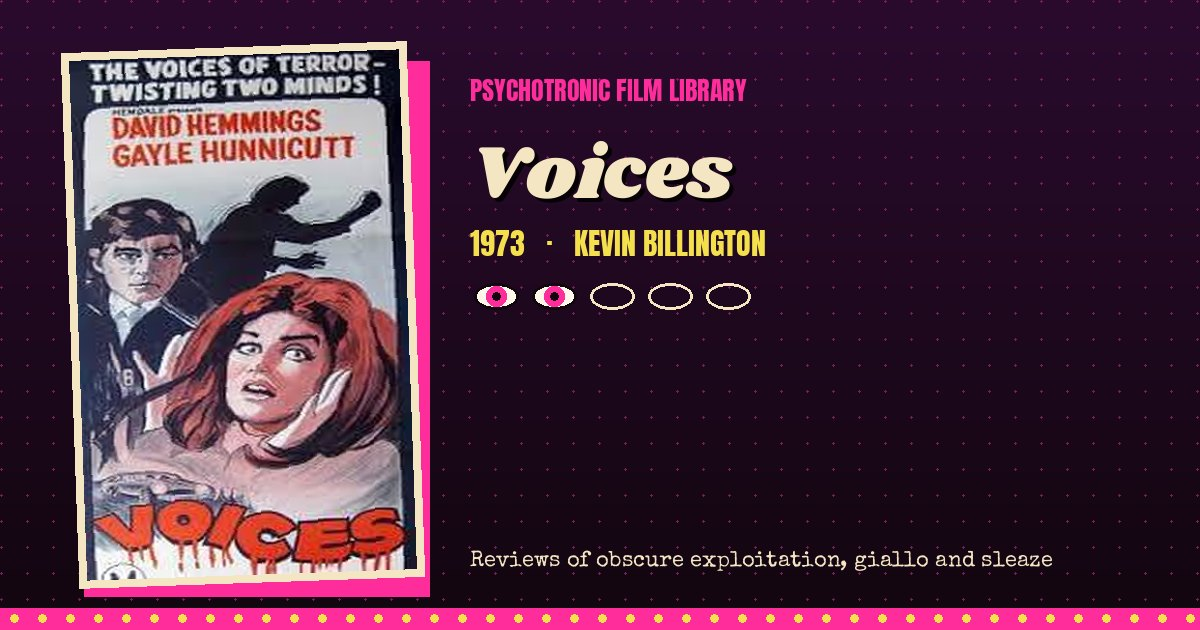
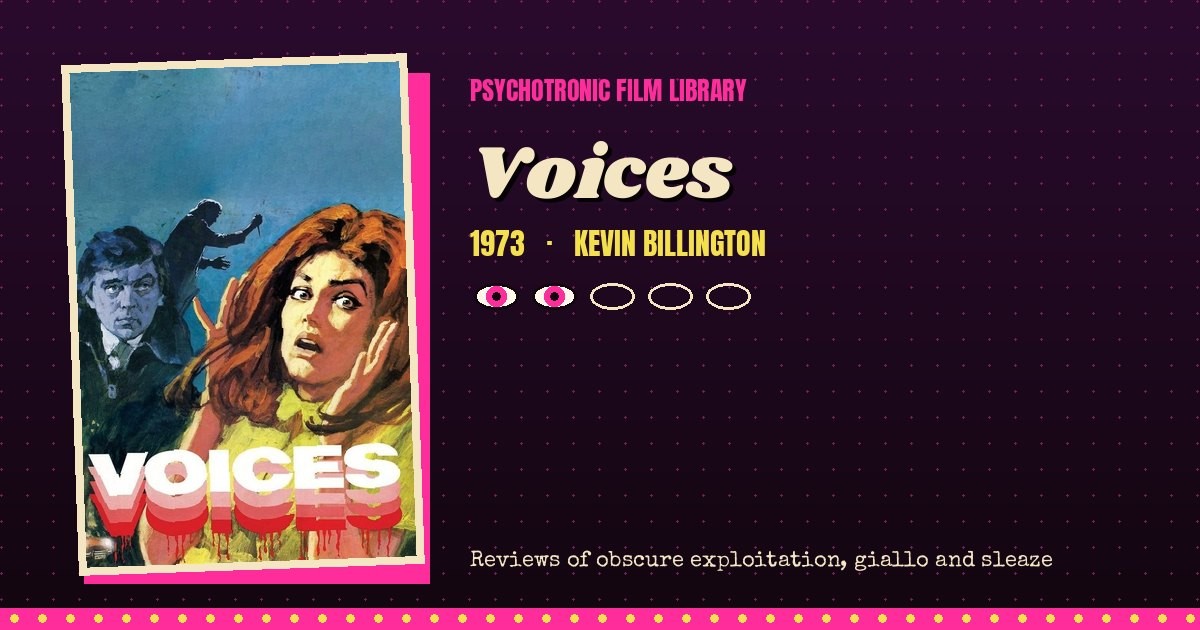
Voices: use the text-free poster as the main image
Claude-Session: https://claude.ai/code/session_017w5wNqVQXbMpbDHe3EtwWF

Changed region(s): [[0.0308, 0.0603, 0.37, 0.9651]]

diff --git a/_posts/2026-10-21-voices.md b/_posts/2026-10-21-voices.md
@@ -11,6 +11,8 @@ genres: [supernatural, thriller, british horror]
 rating: 2
 verdict: "Missed opportunity"
 poster: /assets/img/posters/voices.jpg
+fetch_posters: false
+keep_alts: true
 watch:
   - label: "Powerhouse Films / Indicator Blu-ray, Region B (standard edition, 2024)"
     url: https://m.blu-ray.com/movies/Voices-Blu-ray/353338/
@@ -28,7 +30,7 @@ image: /assets/img/cards/voices.jpg
 imdb: tt0070888
 stills: [/assets/img/stills/voices-1.jpg, /assets/img/stills/voices-2.jpg]
 tmdb_poster: /zpRPOoHLzlQtZSY8DXX1Obb4SPJ.jpg
-posters: [/assets/img/posters/voices-alt-1.jpg, /assets/img/posters/voices-alt-2.jpg, /assets/img/posters/voices-alt-3.jpg]
+posters: [/assets/img/posters/voices-alt-1.jpg, /assets/img/posters/voices-alt-2.jpg]
 ---
 
 Voices (1973) is a supernatural thriller directed by Kevin Billington. Starring real-life couple David Hemmings and Gayle Hunnicutt as Robert and Claire, it follows two people dealing with the accidental death of their son when Claire is discharged from a mental hospital. Robert is keen to rebuild their fractured relationship and they go to an abandoned mansion left to Claire in her aunt's will. Probably not the best decision, when there is no electricity, water or telephone. Claire soon starts to hear the voices of a child and questions her sanity, while Robert is dismissive, bullish and unsympathetic.
